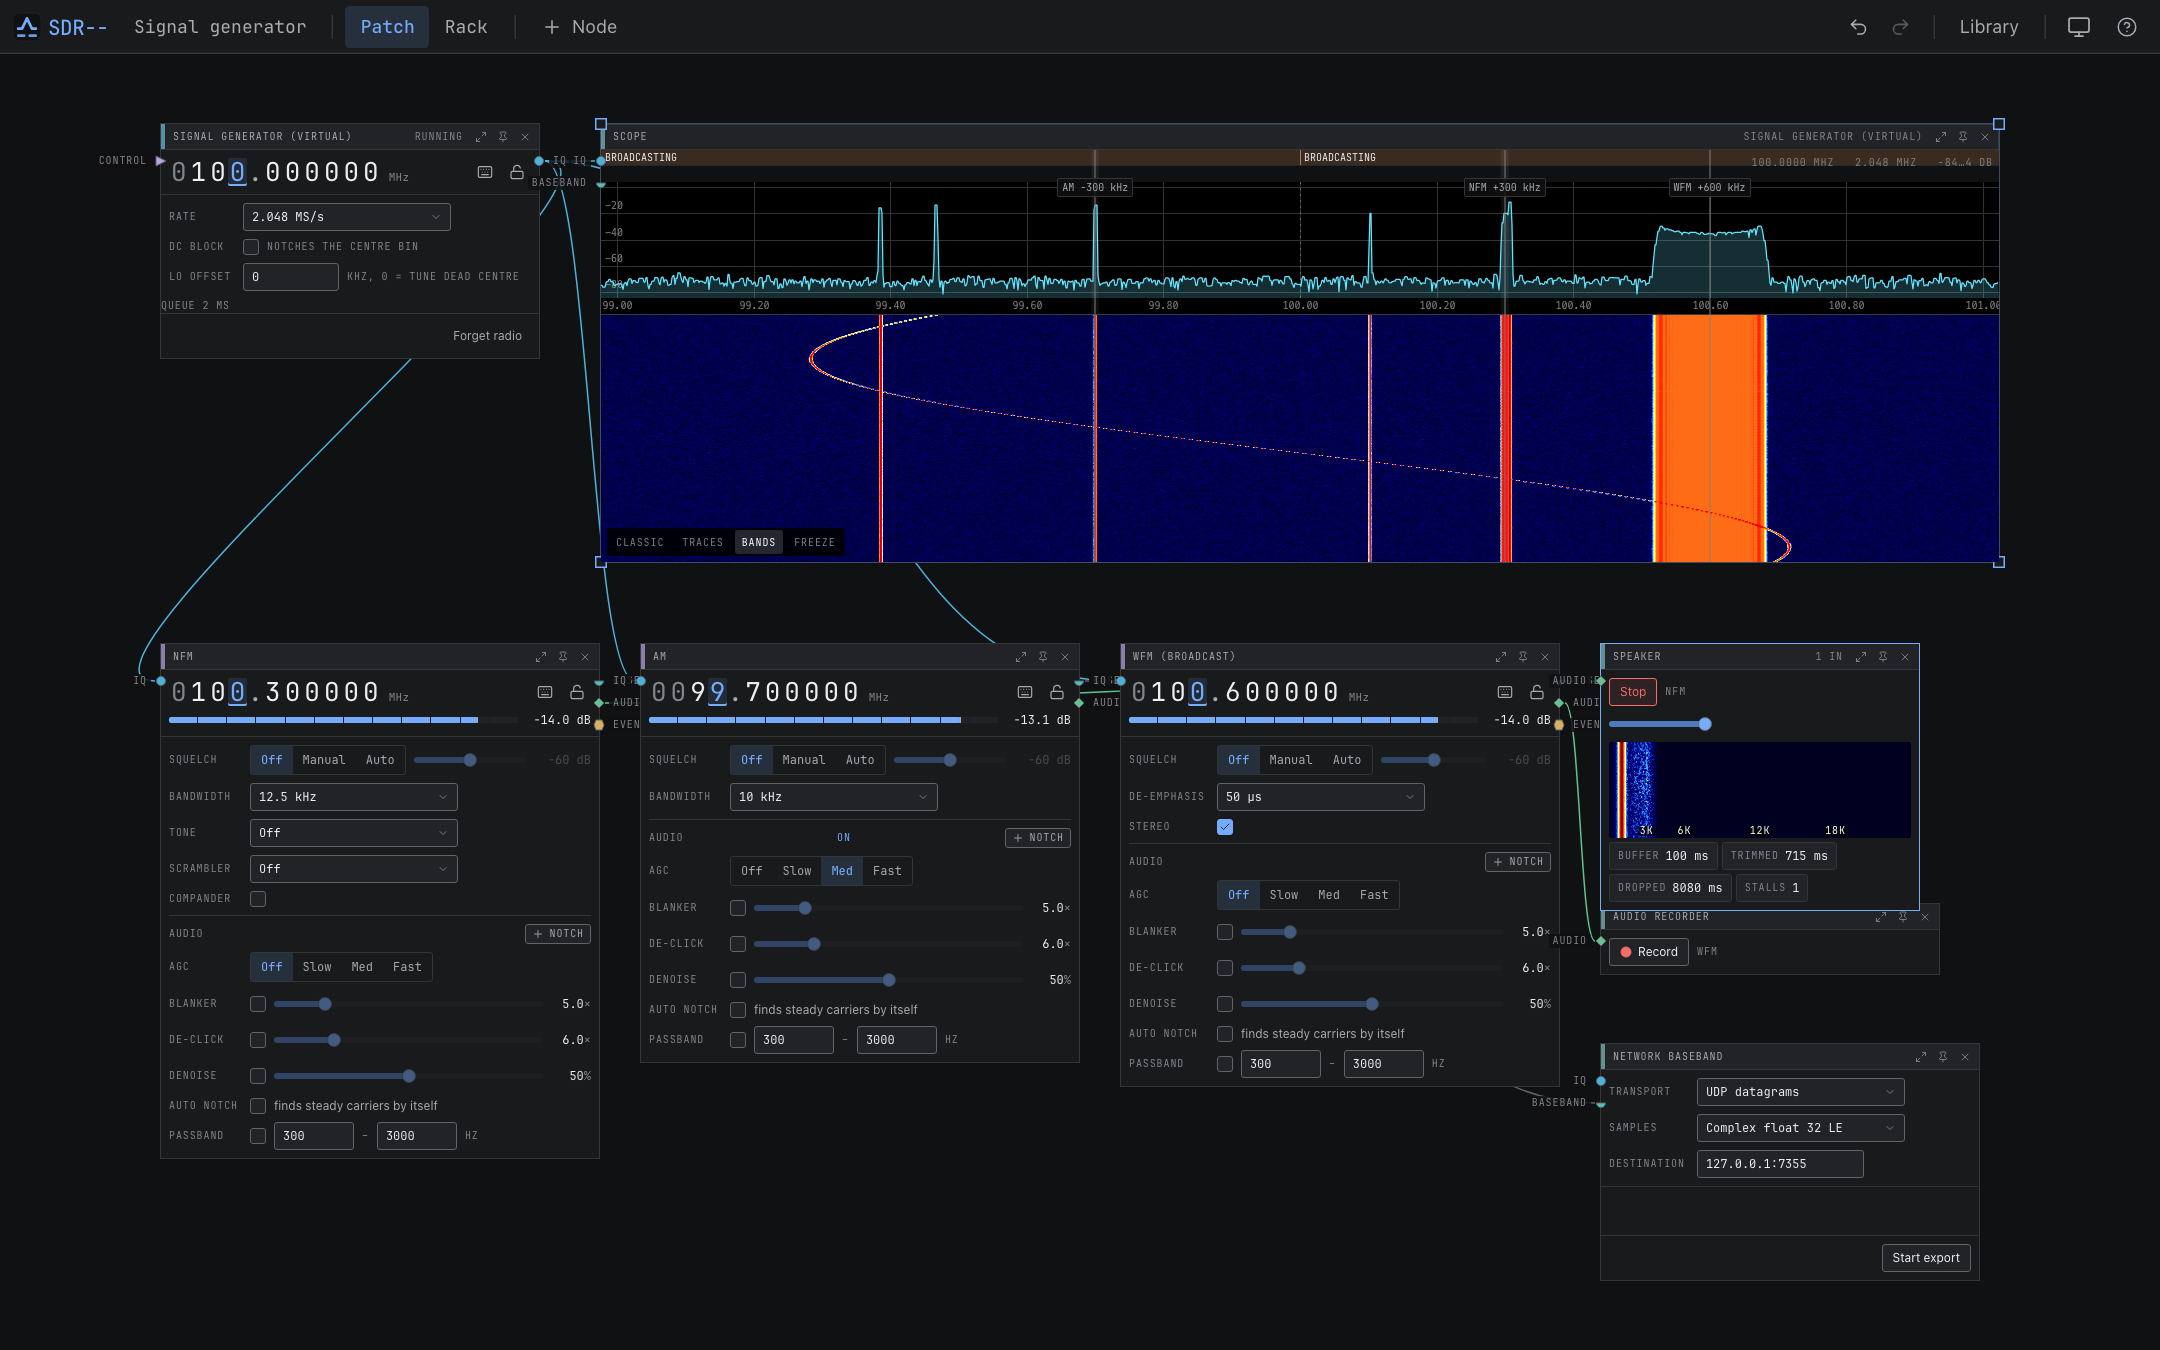
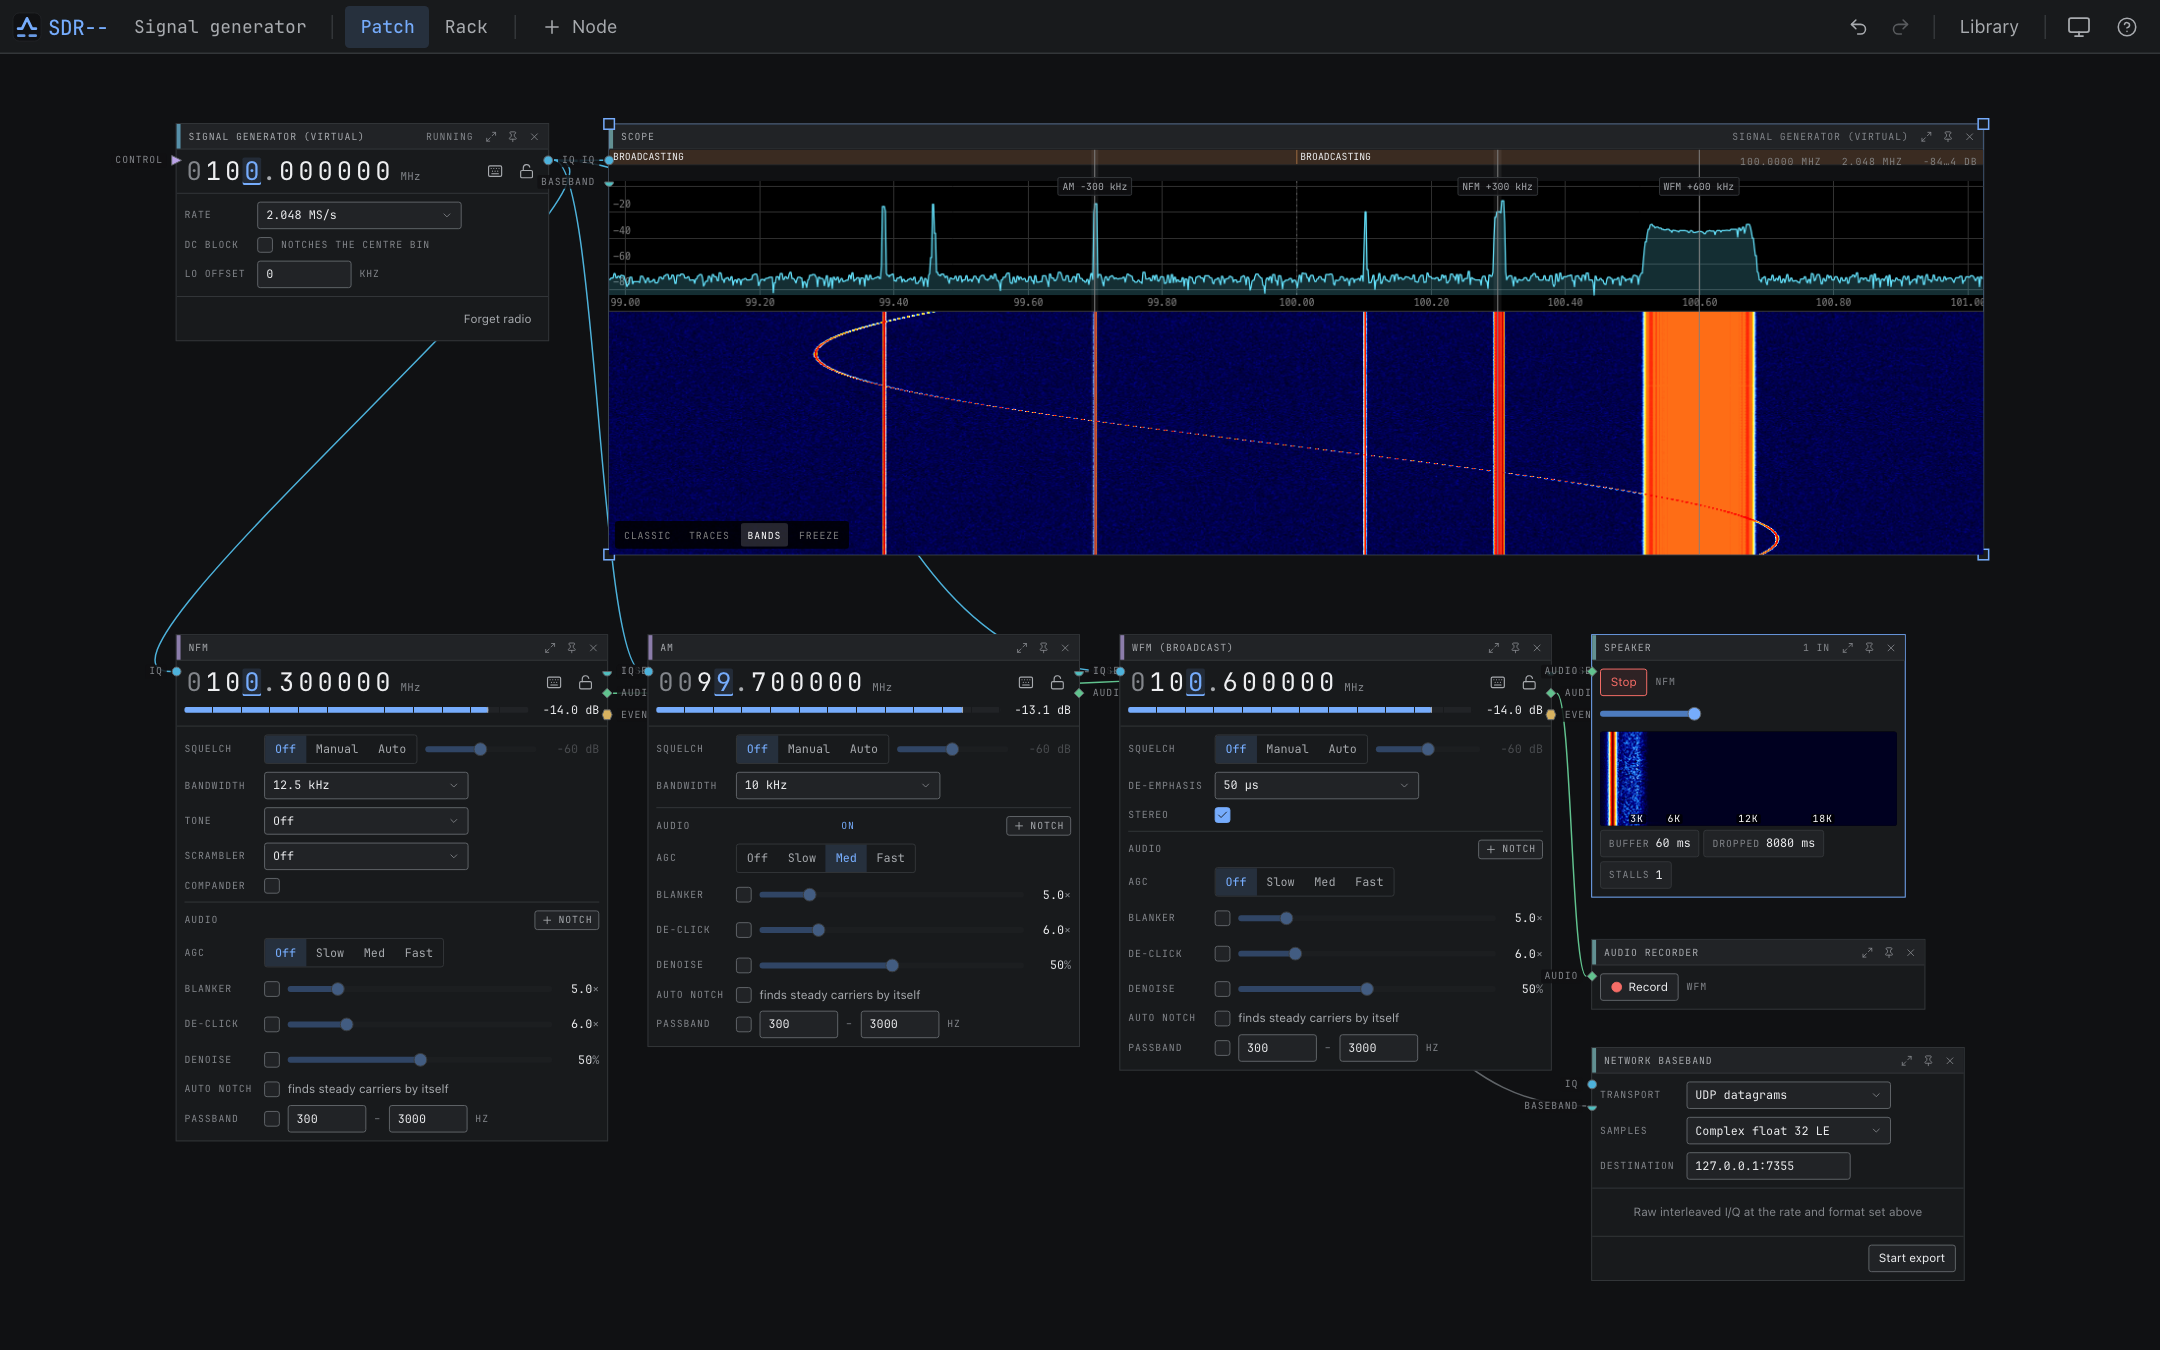
Lay the patch shot out at the heights it renders
The speaker face in the patch screenshot sat on top of the audio
recorder's title bar. `speaker`, `audio_recorder` and `network_export`
carry no height in `NODE_SIZE`, so they size to their content and the
`h` the snapshot gives them is never applied — it only tells the spec
where the next node may start. A playing speaker with a spectrogram and
its buffer chips is about 265 units tall, not the 210 recorded, so the
recorder at y=780 was drawn under it.

The three sinks now state the heights they actually take and sit at
520, 830 and 940. The shot is retaken.

diff --git a/web/e2e/screenshots.spec.ts b/web/e2e/screenshots.spec.ts
@@ -168,9 +168,9 @@ test("one radio feeding several channels", async ({ page }) => {
         channel("nfm", "nfm", { x: 0, y: 520, w: 440, h: 541 }),
         channel("am", "am", { x: 480, y: 520, w: 440, h: 445 }),
         channel("wfm", "wfm", { x: 960, y: 520, w: 440, h: 469 }),
-        node("speaker", { kind: "speaker" }, { x: 1440, y: 520, w: 320, h: 210 }),
-        node("rec", { kind: "audio_recorder" }, { x: 1440, y: 780, w: 340, h: 92 }),
-        node("udp", { kind: "network_export", data: {} }, { x: 1440, y: 920, w: 380, h: 254 }),
+        node("speaker", { kind: "speaker" }, { x: 1440, y: 520, w: 320, h: 270 }),
+        node("rec", { kind: "audio_recorder" }, { x: 1440, y: 830, w: 340, h: 70 }),
+        node("udp", { kind: "network_export", data: {} }, { x: 1440, y: 940, w: 380, h: 240 }),
       ],
       edges: [
         wire(["dev", "iq"], ["scope", "iq"]),
